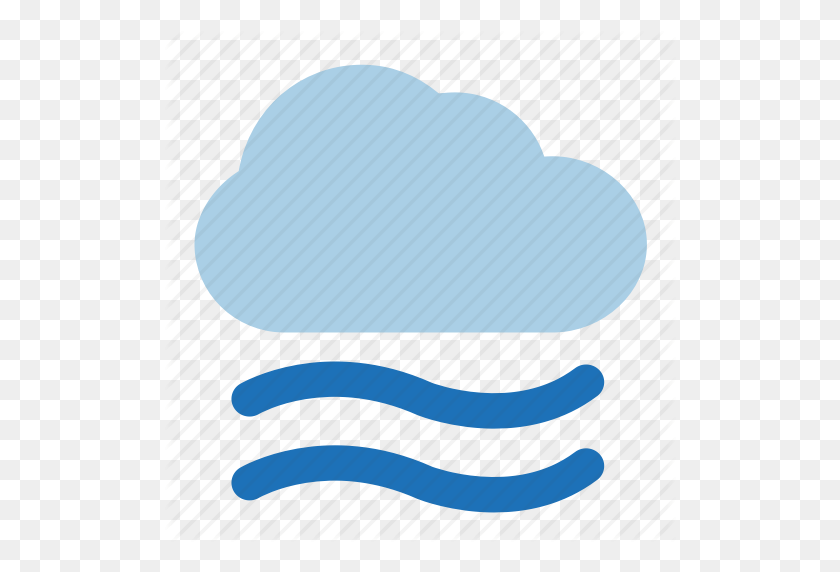
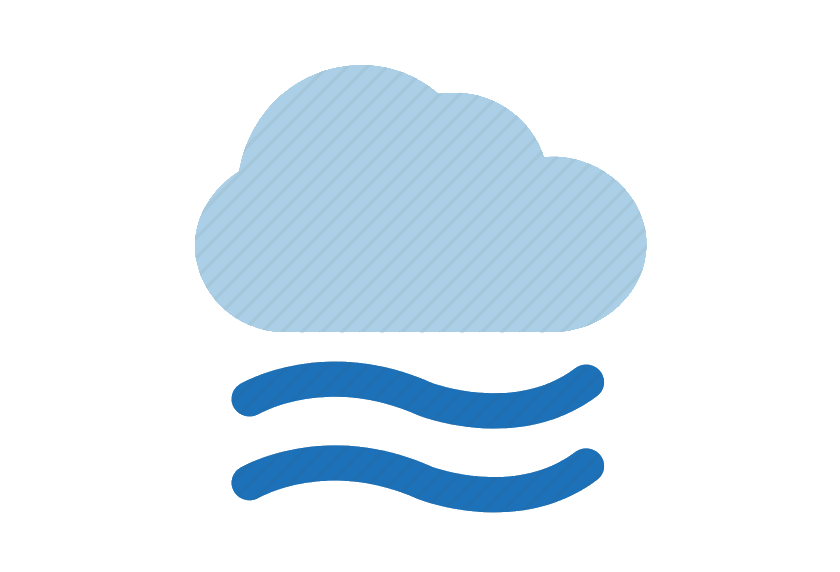
Fix images

diff --git a/index.js b/index.js
@@ -108,10 +108,7 @@ class Widget{
     getWeatherImg(weatherType){
         let path = this.currentWeatherType.src;
         const lastSlashIndex = path.lastIndexOf('/');
-        const fileExtension = path.slice(path.lastIndexOf('.'));
-        path = fileExtension === ".html" ?
-            `${path.slice(0, lastSlashIndex + 1)}src/img/${imgPaths[weatherType]}` :
-            `${path.slice(0, lastSlashIndex + 1)}${imgPaths[weatherType]}`;
+        path = `${path.slice(0, lastSlashIndex + 1)}src/img/${imgPaths[weatherType]}`
         console.log(path);
         return path;
     }

diff --git a/style.css b/style.css
@@ -23,6 +23,10 @@ input{
   height: 35px;
 }
 
+img{
+  background-color: transparent;
+}
+
 button{
   height: 70px;
   background-color: #355fca;
